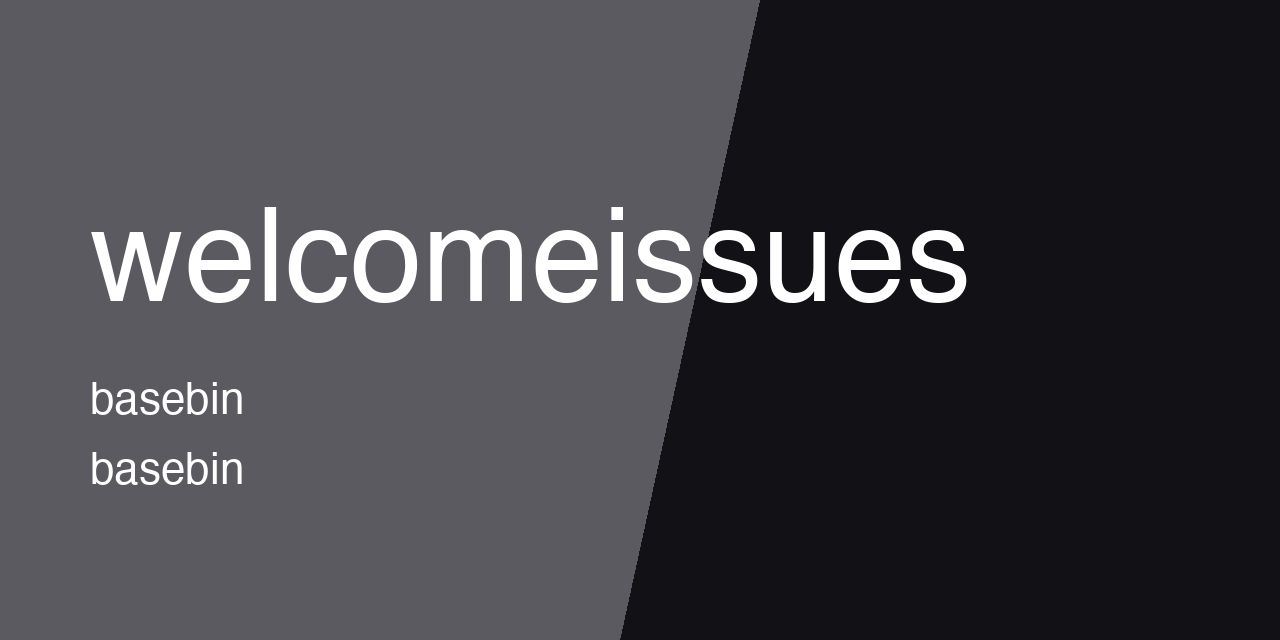
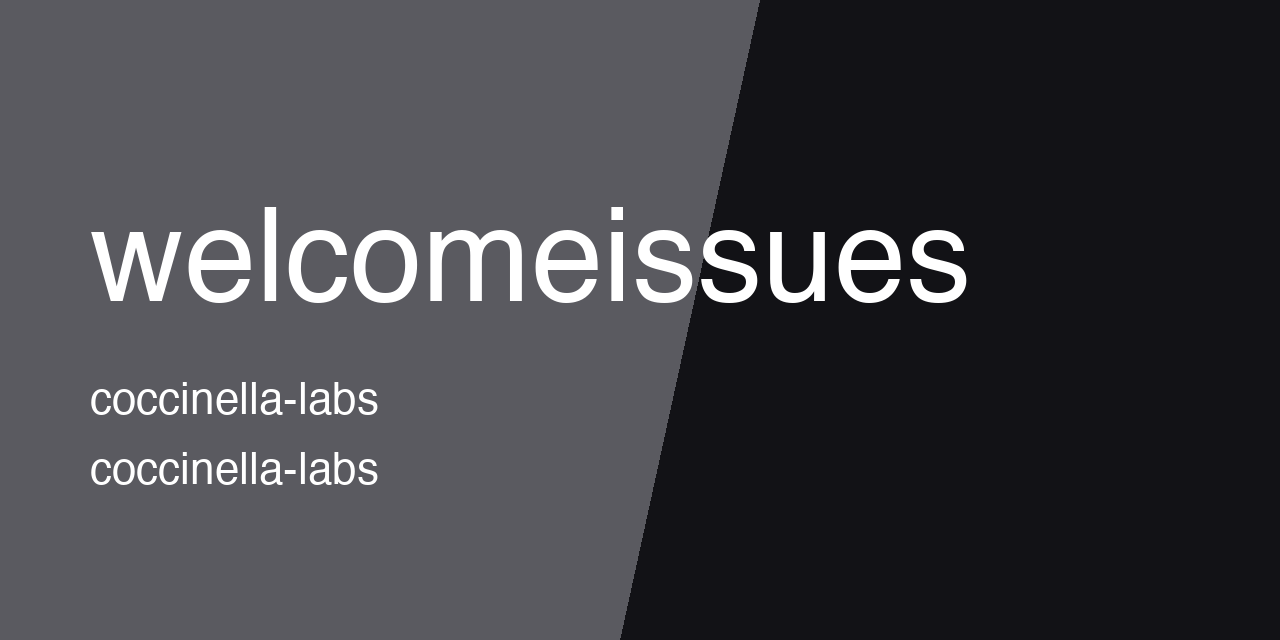
[docs] move thumbnail to coccinella-labs

Changed region(s): [[0.0625, 0.5938, 0.3125, 0.6562], [0.0625, 0.7188, 0.3125, 0.7812]]

diff --git a/README.md b/README.md
@@ -1,5 +1,5 @@
 <p align="center">
-  <img src="https://raw.githubusercontent.com/basebin/welcomeissues/main/.github/assets/thumbnail.png" alt="welcomeissues" width="100%">
+  <img src="https://raw.githubusercontent.com/Coccinella-Labs/welcomeissues/main/.github/assets/thumbnail.png" alt="welcomeissues" width="100%">
 </p>
 
 welcome issues.
